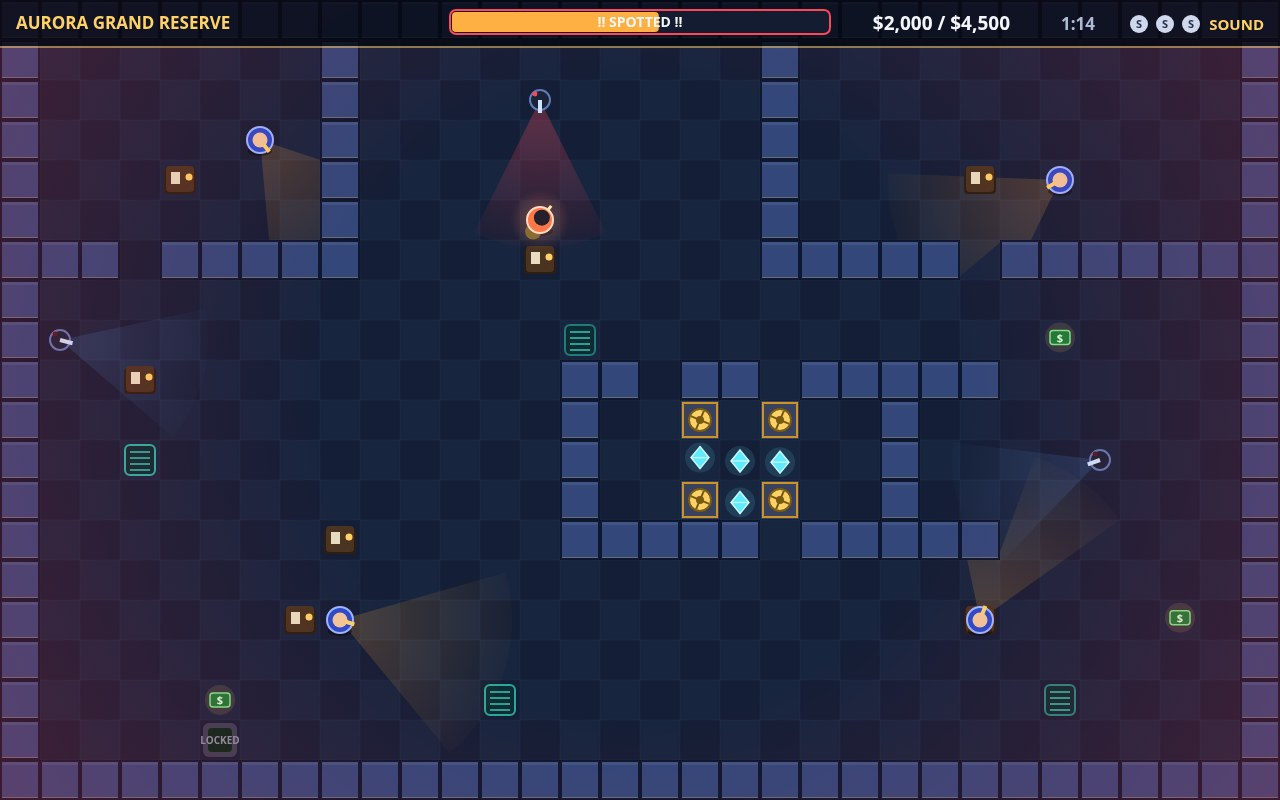
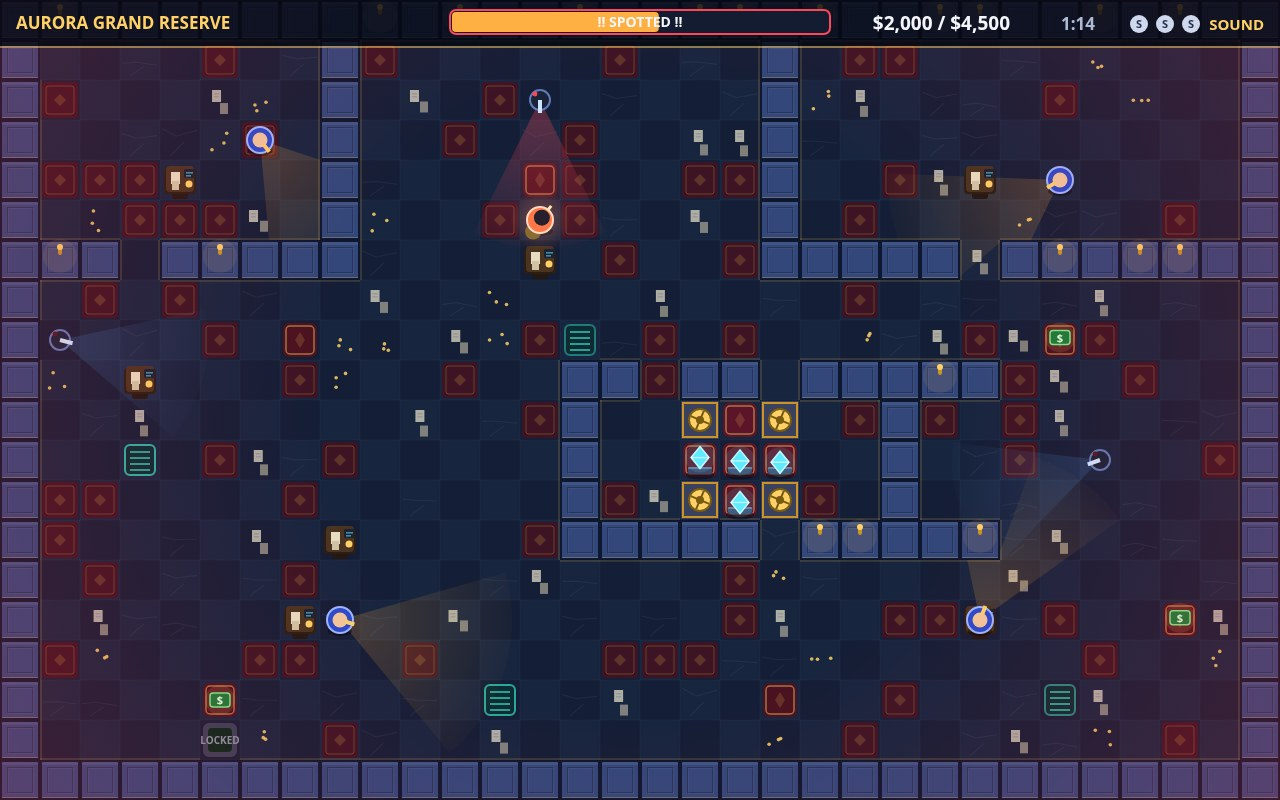
Visual density pass: deterministic decor layer (carpet tiles, marble veining, loot rugs, brass inlay, panelled walls with sconces), furnished desks/plants, loot plinths, dressed level-select backdrop; screenshots re-staged

diff --git a/game/js/decor.js b/game/js/decor.js
@@ -1,0 +1,162 @@
+// decor.js — VAULTBREAK's dressing pass: the purely visual layer that makes
+// each vault read as a furnished, lived-in bank — carpet tiles and marble
+// veining on the floor, a plush rug under every loot pile, brass inlay where
+// floor meets wall, panelled walls with brass sconces. Everything here is
+// derived from a deterministic tile hash, so a room dresses itself identically
+// on every run, and nothing in this file touches movement, sight, or loot —
+// it only paints.
+
+import { TILE, tileAt } from './levels.js';
+
+function seedOf(level) {
+  let s = 0;
+  const id = level.def.id;
+  for (let i = 0; i < id.length; i++) s = (s * 31 + id.charCodeAt(i)) | 0;
+  return s;
+}
+
+function hash01(seed, tx, ty, salt) {
+  let h = (Math.imul(tx + 1, 374761393) + Math.imul(ty + 1, 668265263)
+    + Math.imul(seed + 1, 974711) + Math.imul(salt + 1, 2246822519)) | 0;
+  h = Math.imul(h ^ (h >>> 13), 1274126177);
+  return ((h ^ (h >>> 16)) >>> 0) / 4294967296;
+}
+
+function roundRect(ctx, x, y, w, h, r) {
+  ctx.beginPath();
+  ctx.moveTo(x + r, y);
+  ctx.arcTo(x + w, y, x + w, y + h, r);
+  ctx.arcTo(x + w, y + h, x, y + h, r);
+  ctx.arcTo(x, y + h, x, y, r);
+  ctx.arcTo(x, y, x + w, y, r);
+  ctx.closePath();
+}
+
+const LOOT_CHARS = new Set(['$', 'g', '*']);
+
+export function drawFloorDecor(ctx, level) {
+  const seed = seedOf(level);
+  for (let ty = 0; ty < level.height; ty++) {
+    for (let tx = 0; tx < level.width; tx++) {
+      const ch = tileAt(level, tx, ty);
+      const x = tx * TILE, y = ty * TILE;
+      if (LOOT_CHARS.has(ch)) drawLootRug(ctx, x, y, ch);
+      else if (ch === '.') drawFloorTile(ctx, seed, tx, ty, x, y);
+      else continue;
+      drawBrassInlay(ctx, level, tx, ty, x, y);
+    }
+  }
+}
+
+function drawLootRug(ctx, x, y, kind) {
+  ctx.fillStyle = kind === '*' ? '#5c1428' : '#4a1220';
+  roundRect(ctx, x + 3, y + 3, TILE - 6, TILE - 6, 6);
+  ctx.fill();
+  ctx.strokeStyle = 'rgba(255, 209, 102, 0.5)';
+  ctx.lineWidth = 1.5;
+  roundRect(ctx, x + 6, y + 6, TILE - 12, TILE - 12, 4);
+  ctx.stroke();
+  ctx.fillStyle = 'rgba(255, 209, 102, 0.16)';
+  ctx.beginPath();
+  ctx.moveTo(x + 20, y + 12);
+  ctx.lineTo(x + 25, y + 20);
+  ctx.lineTo(x + 20, y + 28);
+  ctx.lineTo(x + 15, y + 20);
+  ctx.closePath();
+  ctx.fill();
+}
+
+function drawFloorTile(ctx, seed, tx, ty, x, y) {
+  const r = hash01(seed, tx, ty, 1);
+  if (r < 0.15) {
+    // Carpet tile: deep burgundy with a woven border and centre diamond.
+    ctx.fillStyle = '#3d1424';
+    roundRect(ctx, x + 2, y + 2, TILE - 4, TILE - 4, 4);
+    ctx.fill();
+    ctx.strokeStyle = 'rgba(233, 179, 76, 0.28)';
+    ctx.lineWidth = 1;
+    roundRect(ctx, x + 6, y + 6, TILE - 12, TILE - 12, 3);
+    ctx.stroke();
+    ctx.fillStyle = 'rgba(233, 179, 76, 0.20)';
+    ctx.beginPath();
+    ctx.moveTo(x + 20, y + 14);
+    ctx.lineTo(x + 26, y + 20);
+    ctx.lineTo(x + 20, y + 26);
+    ctx.lineTo(x + 14, y + 20);
+    ctx.closePath();
+    ctx.fill();
+  } else if (r < 0.27) {
+    // Marble veining: two faint mineral streaks across the tile.
+    ctx.strokeStyle = 'rgba(190, 205, 240, 0.07)';
+    ctx.lineWidth = 1.2;
+    const off = hash01(seed, tx, ty, 2) * 18;
+    ctx.beginPath();
+    ctx.moveTo(x + 2, y + 8 + off);
+    ctx.lineTo(x + 16, y + 16 + off * 0.4);
+    ctx.lineTo(x + TILE - 3, y + 10 + off);
+    ctx.stroke();
+    ctx.beginPath();
+    ctx.moveTo(x + 10, y + TILE - 4);
+    ctx.lineTo(x + 24, y + 22 + off * 0.3);
+    ctx.stroke();
+  } else if (r < 0.34) {
+    // Scattered paperwork dropped on the bank floor.
+    ctx.fillStyle = 'rgba(226, 220, 198, 0.75)';
+    const a = hash01(seed, tx, ty, 3);
+    ctx.fillRect(x + 8 + a * 8, y + 10, 9, 12);
+    ctx.fillStyle = 'rgba(198, 192, 168, 0.6)';
+    ctx.fillRect(x + 20, y + 20 + a * 6, 8, 11);
+    ctx.fillStyle = 'rgba(120, 130, 160, 0.5)';
+    ctx.fillRect(x + 10 + a * 8, y + 13, 5, 1.5);
+    ctx.fillRect(x + 10 + a * 8, y + 16, 5, 1.5);
+  } else if (r < 0.40) {
+    // Loose coin glints spilled near the money.
+    ctx.fillStyle = 'rgba(255, 209, 102, 0.85)';
+    for (let i = 0; i < 3; i++) {
+      const gx = x + 9 + hash01(seed, tx, ty, 4 + i) * 22;
+      const gy = y + 9 + hash01(seed, tx, ty, 7 + i) * 22;
+      ctx.beginPath();
+      ctx.arc(gx, gy, 1.8, 0, Math.PI * 2);
+      ctx.fill();
+    }
+  }
+}
+
+function drawBrassInlay(ctx, level, tx, ty, x, y) {
+  ctx.fillStyle = 'rgba(233, 179, 76, 0.16)';
+  if (tileAt(level, tx, ty - 1) === '#') ctx.fillRect(x, y, TILE, 2);
+  if (tileAt(level, tx, ty + 1) === '#') ctx.fillRect(x, y + TILE - 2, TILE, 2);
+  if (tileAt(level, tx - 1, ty) === '#') ctx.fillRect(x, y, 2, TILE);
+  if (tileAt(level, tx + 1, ty) === '#') ctx.fillRect(x + TILE - 2, y, 2, TILE);
+}
+
+export function drawWallDecor(ctx, level) {
+  const seed = seedOf(level);
+  for (let ty = 0; ty < level.height; ty++) {
+    for (let tx = 0; tx < level.width; tx++) {
+      if (tileAt(level, tx, ty) !== '#') continue;
+      const x = tx * TILE, y = ty * TILE;
+      // Panel inset on every wall slab.
+      ctx.strokeStyle = 'rgba(10, 16, 34, 0.35)';
+      ctx.lineWidth = 1;
+      ctx.strokeRect(x + 7.5, y + 7.5, TILE - 15, TILE - 15);
+      ctx.strokeStyle = 'rgba(255, 255, 255, 0.05)';
+      ctx.strokeRect(x + 8.5, y + 8.5, TILE - 15, TILE - 15);
+      // Brass sconce with a warm pool of light, on wall faces above floor.
+      if (tileAt(level, tx, ty + 1) !== '#' && hash01(seed, tx, ty, 9) < 0.34) {
+        const cx = x + TILE / 2;
+        ctx.fillStyle = 'rgba(255, 190, 92, 0.10)';
+        ctx.beginPath();
+        ctx.arc(cx, y + 16, 17, 0, Math.PI * 2);
+        ctx.fill();
+        ctx.fillStyle = '#c99327';
+        roundRect(ctx, cx - 2, y + 6, 4, 9, 2);
+        ctx.fill();
+        ctx.fillStyle = '#ffd166';
+        ctx.beginPath();
+        ctx.arc(cx, y + 7, 3, 0, Math.PI * 2);
+        ctx.fill();
+      }
+    }
+  }
+}

diff --git a/game/js/render.js b/game/js/render.js
@@ -3,6 +3,7 @@
 // the raycast helpers that clip every vision cone against the walls.
 
 import { TILE, tileAt, blocksSight } from './levels.js';
+import { drawFloorDecor, drawWallDecor } from './decor.js';
 
 export const COLORS = {
   floor: '#141e36',
@@ -96,6 +97,7 @@ export function drawRoom(ctx, level, time) {
   for (let ty = 0; ty <= level.height; ty++) {
     ctx.beginPath(); ctx.moveTo(0, ty * TILE); ctx.lineTo(level.width * TILE, ty * TILE); ctx.stroke();
   }
+  drawFloorDecor(ctx, level);
 }
 
 export function drawFurniture(ctx, level) {
@@ -109,6 +111,7 @@ export function drawFurniture(ctx, level) {
       else if (ch === '#') drawWall(ctx, x, y);
     }
   }
+  drawWallDecor(ctx, level);
 }
 
 function drawWall(ctx, x, y) {
@@ -124,23 +127,46 @@ function drawWall(ctx, x, y) {
 }
 
 function drawDesk(ctx, x, y) {
+  // Chair tucked behind the desk.
+  ctx.fillStyle = '#241812';
+  roundRect(ctx, x + 12, y + 31, 16, 8, 3);
+  ctx.fill();
+  ctx.fillStyle = '#31231a';
+  roundRect(ctx, x + 14, y + 28, 12, 5, 2);
+  ctx.fill();
   ctx.fillStyle = COLORS.deskEdge;
   roundRect(ctx, x + 4, y + 8, TILE - 8, TILE - 14, 4);
   ctx.fill();
   ctx.fillStyle = COLORS.desk;
   roundRect(ctx, x + 6, y + 6, TILE - 12, TILE - 14, 4);
   ctx.fill();
+  // Ledger paper, a second sheet, and a dark monitor with a teal glow line.
   ctx.fillStyle = '#e8ddc0';
   ctx.fillRect(x + 11, y + 12, 9, 12);
+  ctx.fillStyle = '#cfc4a4';
+  ctx.fillRect(x + 12, y + 21, 7, 9);
+  ctx.fillStyle = '#1a2233';
+  roundRect(ctx, x + 24, y + 9, 11, 9, 1.5);
+  ctx.fill();
+  ctx.fillStyle = 'rgba(94, 234, 255, 0.55)';
+  ctx.fillRect(x + 26, y + 12, 7, 1.6);
+  ctx.fillRect(x + 26, y + 15, 5, 1.6);
   ctx.fillStyle = '#ffd166';
   ctx.beginPath();
-  ctx.arc(x + 29, y + 17, 3.5, 0, Math.PI * 2);
+  ctx.arc(x + 29, y + 24, 3.5, 0, Math.PI * 2);
   ctx.fill();
 }
 
 function drawPlant(ctx, x, y) {
   ctx.fillStyle = '#5a3a22';
   roundRect(ctx, x + 13, y + 24, 14, 10, 3);
+  ctx.fill();
+  ctx.fillStyle = '#7a4e2c';
+  roundRect(ctx, x + 12, y + 23, 16, 4, 2);
+  ctx.fill();
+  ctx.fillStyle = '#3a2413';
+  ctx.beginPath();
+  ctx.ellipse(x + 20, y + 25, 6, 2.2, 0, 0, Math.PI * 2);
   ctx.fill();
   ctx.fillStyle = COLORS.plant;
   for (const [dx, dy, r] of [[14, 18, 8], [24, 13, 9], [27, 22, 7], [18, 24, 6]]) {
@@ -217,6 +243,19 @@ export function drawLootItem(ctx, item, time) {
   if (item.taken) return;
   const cx = item.tx * TILE + TILE / 2;
   const cy = item.ty * TILE + TILE / 2 + Math.sin(time * 3 + item.tx * 1.7 + item.ty) * 2.5;
+  if (item.kind !== '$') {
+    // Stone plinth the gold and gems sit on; the treasure bobs, the stone doesn't.
+    const gy = item.ty * TILE + TILE - 7;
+    ctx.fillStyle = 'rgba(8, 11, 22, 0.55)';
+    ctx.beginPath();
+    ctx.ellipse(cx, gy + 2, 14, 4.5, 0, 0, Math.PI * 2);
+    ctx.fill();
+    ctx.fillStyle = '#3d4a6e';
+    roundRect(ctx, cx - 12, gy - 6, 24, 7, 2);
+    ctx.fill();
+    ctx.fillStyle = 'rgba(190, 205, 240, 0.35)';
+    ctx.fillRect(cx - 12, gy - 6, 24, 2);
+  }
   ctx.beginPath();
   ctx.arc(cx, cy, 15, 0, Math.PI * 2);
   ctx.fillStyle = item.kind === '*' ? 'rgba(94, 234, 255, 0.13)' : 'rgba(255, 209, 102, 0.13)';

diff --git a/game/js/screens.js b/game/js/screens.js
@@ -86,6 +86,31 @@ function drawHelpPanel(ctx, game) {
 export function drawLevelSelect(ctx, game) {
   ctx.fillStyle = '#070b16';
   ctx.fillRect(0, 0, 1280, 800);
+  // Dressed backdrop: a faint marble checker under a double gold frame.
+  for (let by = 0; by < 10; by++) {
+    for (let bx = 0; bx < 16; bx++) {
+      if ((bx + by) % 2 === 0) {
+        ctx.fillStyle = 'rgba(120, 150, 220, 0.045)';
+        ctx.fillRect(bx * 80, by * 80, 80, 80);
+      }
+    }
+  }
+  ctx.strokeStyle = 'rgba(255, 209, 102, 0.5)';
+  ctx.lineWidth = 2;
+  ctx.strokeRect(14, 14, 1252, 772);
+  ctx.strokeStyle = 'rgba(255, 209, 102, 0.22)';
+  ctx.lineWidth = 1;
+  ctx.strokeRect(22, 22, 1236, 756);
+  ctx.fillStyle = 'rgba(255, 209, 102, 0.65)';
+  for (const [fx, fy] of [[14, 14], [1266, 14], [14, 786], [1266, 786]]) {
+    ctx.beginPath();
+    ctx.moveTo(fx, fy - 7);
+    ctx.lineTo(fx + 7, fy);
+    ctx.lineTo(fx, fy + 7);
+    ctx.lineTo(fx - 7, fy);
+    ctx.closePath();
+    ctx.fill();
+  }
   ctx.textAlign = 'center';
   ctx.fillStyle = GOLD;
   ctx.font = 'bold 52px Georgia, "Times New Roman", serif';
